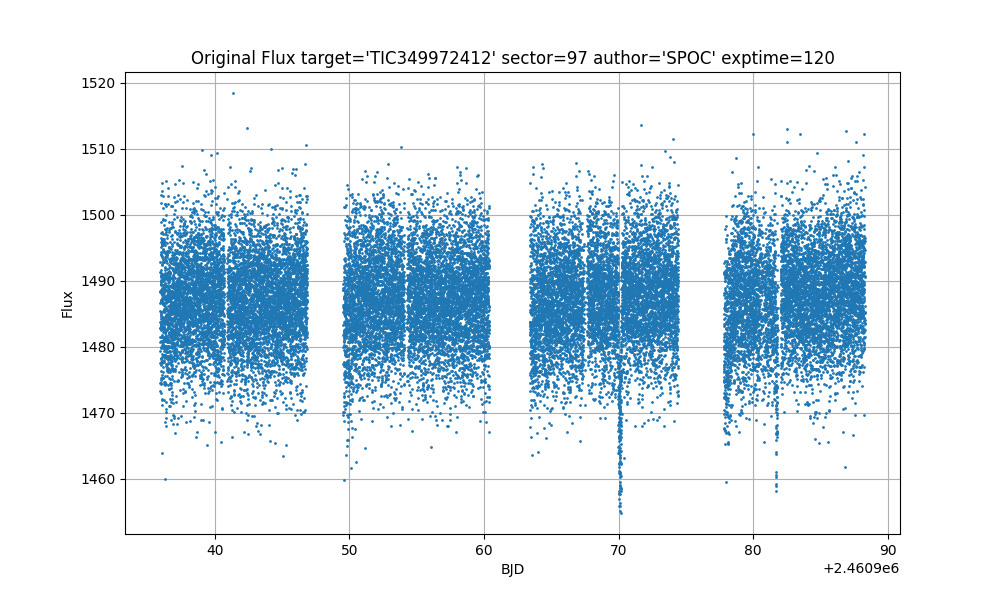
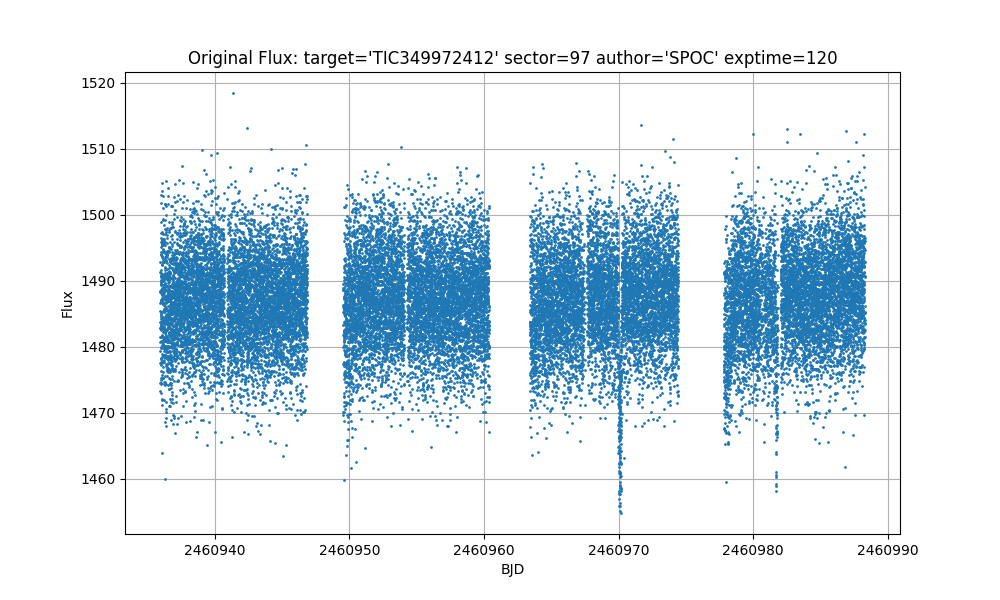
0.5.6 Fitting TOI-4504

diff --git a/src/curvesimulator/cs_flux_data.py b/src/curvesimulator/cs_flux_data.py
@@ -101,11 +101,15 @@ class CurveSimFluxData:
         # https://lightkurve.github.io/lightkurve/reference/api/lightkurve.LightCurve.flatten.html
         # Download of fits-files. Sometimes there are several for the same sector.
         # search = search_targetpixelfile("TIC 349972412", author="SPOC", sector=sectors)
+        target = target if isinstance(target, str) else None
         sector = None if np.isnan(sector) else int(sector)
         author = author if isinstance(author, str) else None
-        exptime = None if np.isnan(exptime) else exptime
+        exptime = None if np.isnan(exptime) else int(exptime)
         index = None if np.isnan(index) else int(index)
         print(f"Looking for lightcurve with {target=}  {sector=}  {author=}  {exptime=}  {index=}. ", end="")
+        if target is None:
+            print(f"{Fore.YELLOW}\nWARNING: Ignoring row in in {p.tt_file}, because it contains no target.{Style.RESET_ALL}")
+            return None
         search_result = lk.search_lightcurve(target=target, sector=sector, author=author, exptime=exptime)
         if len(search_result) == 0:
             print(f"{Fore.RED}\nERROR: No data found for sector {sector}. Check the search criteria in {p.tt_file}{Style.RESET_ALL}")
@@ -138,11 +142,11 @@ class CurveSimFluxData:
             plt.plot(lc.time.jd, lc.flux, marker='o', markersize=1, linestyle='None', label=f'Sector {sector}')  # sometimes list(lc.flux) was needed
             plt.xlabel('BJD')
             plt.ylabel('Flux')
-            plt.title(f'Original Flux {target=} {sector=:.0f} {author=} {exptime=:.0f}')
+            plt.title(f'Original Flux: {target=} {sector=:.0f} {author=} {exptime=:.0f}')
             # plt.legend()
             plt.grid(True)
+            plt.ticklabel_format(useOffset=False, style="plain", axis="x")
             plt.savefig(f'{p.flux_data_directory}/download_plots/{sector:.0f}_{author}_{exptime:.0f}.png')
-            # plt.savefig(f'../research/star_systems/TOI-4504/lightkurve/{sector}/{sector}_{author}_{exptime}{cut}.png')
             plt.show()
             plt.close()
         if save_error_plot:
@@ -150,9 +154,10 @@ class CurveSimFluxData:
             plt.plot(lc.time.jd, lc.flux_err, marker='o', markersize=1, color = 'red', linestyle='None', label=f'Sector {sector}')  # sometimes list(lc.flux) was needed
             plt.xlabel('BJD')
             plt.ylabel('Flux Error')
-            plt.title(f'Original Flux Error {target=} {sector=:.0f} {author=} {exptime=:.0f}')
+            plt.title(f'Original Flux Error: {target=} {sector=:.0f} {author=} {exptime=:.0f}')
             # plt.legend()
             plt.grid(True)
+            plt.ticklabel_format(useOffset=False, style="plain", axis="x")
             plt.savefig(f'{p.flux_data_directory}/download_plots/{sector:.0f}_{author}_{exptime:.0f}_err.png')
             plt.show()
             plt.close()
@@ -161,55 +166,43 @@ class CurveSimFluxData:
             CurveSimFluxData.lc2csv(lc, pandas_file)
             return pandas_file
 
-
     @staticmethod
-    def get_flux(p):
+    def get_tess_flux(p):
         measured_tt = CurveSimResults.get_measured_tt(p)
         print("Getting TESS Data...")
-        for transit in measured_tt.itertuples(index=False):
-            print()
-            flux_file = CurveSimFluxData.download_flux_lc(p,
-                                              target=transit.target,
-                                              sector=transit.sector,
-                                              author=transit.author,
-                                              exptime=transit.exptime,
-                                              index=transit.index)
-            # store flux_file in the current row of the DataFrame measured_tt in column "flux_file"
-            siehe get_flux_copilot()
-        return
+        if "file" not in measured_tt.columns:  # ensure the column exists
+            measured_tt["file"] = None
 
-
-    @staticmethod
-    def get_flux_copilot(p):
-        measured_tt = CurveSimResults.get_measured_tt(p)
-        print("Getting TESS Data...")
-        # ensure the column exists
-        if "flux_file" not in measured_tt.columns:
-            measured_tt["flux_file"] = None
-
-        for idx, row in measured_tt.iterrows():
+        for idx, tt_row in measured_tt.iterrows():
             flux_file = CurveSimFluxData.download_flux_lc(
                 p,
-                target=row.get("target"),
-                sector=row.get("sector"),
-                author=row.get("author"),
-                exptime=row.get("exptime"),
-                index=row.get("index"))
-            measured_tt.at[idx, "flux_file"] = flux_file
-
-        # save back to the transits table file if attribute available
-        if hasattr(p, "tt_file") and p.tt_file:
+                target=tt_row.get("target"),
+                sector=tt_row.get("sector"),
+                author=tt_row.get("author"),
+                exptime=tt_row.get("exptime"),
+                index=tt_row.get("index"))
+            measured_tt.at[idx, "file"] = flux_file
             measured_tt.to_csv(p.tt_file, index=False)
 
-        return measured_tt
+    @staticmethod
+    def process_tess_flux(p):
+        measured_tt = CurveSimResults.get_measured_tt(p)
+        print("Processing TESS Data...")
+        for idx, tt_row in measured_tt.iterrows():
+            CurveSimFluxData.process_flux_lc(p, tt_row)
 
-
-
-
-
-
-
-
+    @staticmethod
+    def process_flux_lc(p, tt_row):
+        flux_original = pd.read_csv(tt_row.get("file"))
+        flux_bjd_time = tesstime2bjd(flux_original)
+        df1 = extract_from_df(flux_bjd_time, tt_row.get("n0"), tt_row.get("n1"))
+        df2 = extract_from_df(flux_bjd_time, tt_row.get("n2"), tt_row.get("n3"))
+        flux_normalizing_reference = pd.concat([df1, df2], ignore_index=True)
+        flux_normalized = scale_flux(flux_bjd_time, 1 / median_flux(flux_normalizing_reference))
+        # save flux_normalized to subdirectory processed with suffix _p
+        # save plot of flux_normalized to subdirectory processed_plots with suffix _p
+        # save flux_transit to subdirectory transits with suffix _t
+        # save plot of flux_transit to subdirectory transit_plots with suffix _p
 
 
 

diff --git a/src/curvesimulator/curvesim.py b/src/curvesimulator/curvesim.py
@@ -128,7 +128,9 @@ class CurveSimulator:
             CurveSimResults.ttv_to_date_plot(p, amplitude=2.0, period=946.5, x_offset=-393, osc_per=82.5438)
             sys.exit(0)
         elif p.action == "get_tess_data":
-            CurveSimFluxData.get_flux(p)
+            CurveSimFluxData.get_tess_flux(p)
+        elif p.action == "process_tess_data":
+            CurveSimFluxData.process_tess_flux(p)
         else:
             print(f"{Fore.RED}\nERROR: Invalid parameter 'action' in configuration file {Style.RESET_ALL}")
             sys.exit(1)
